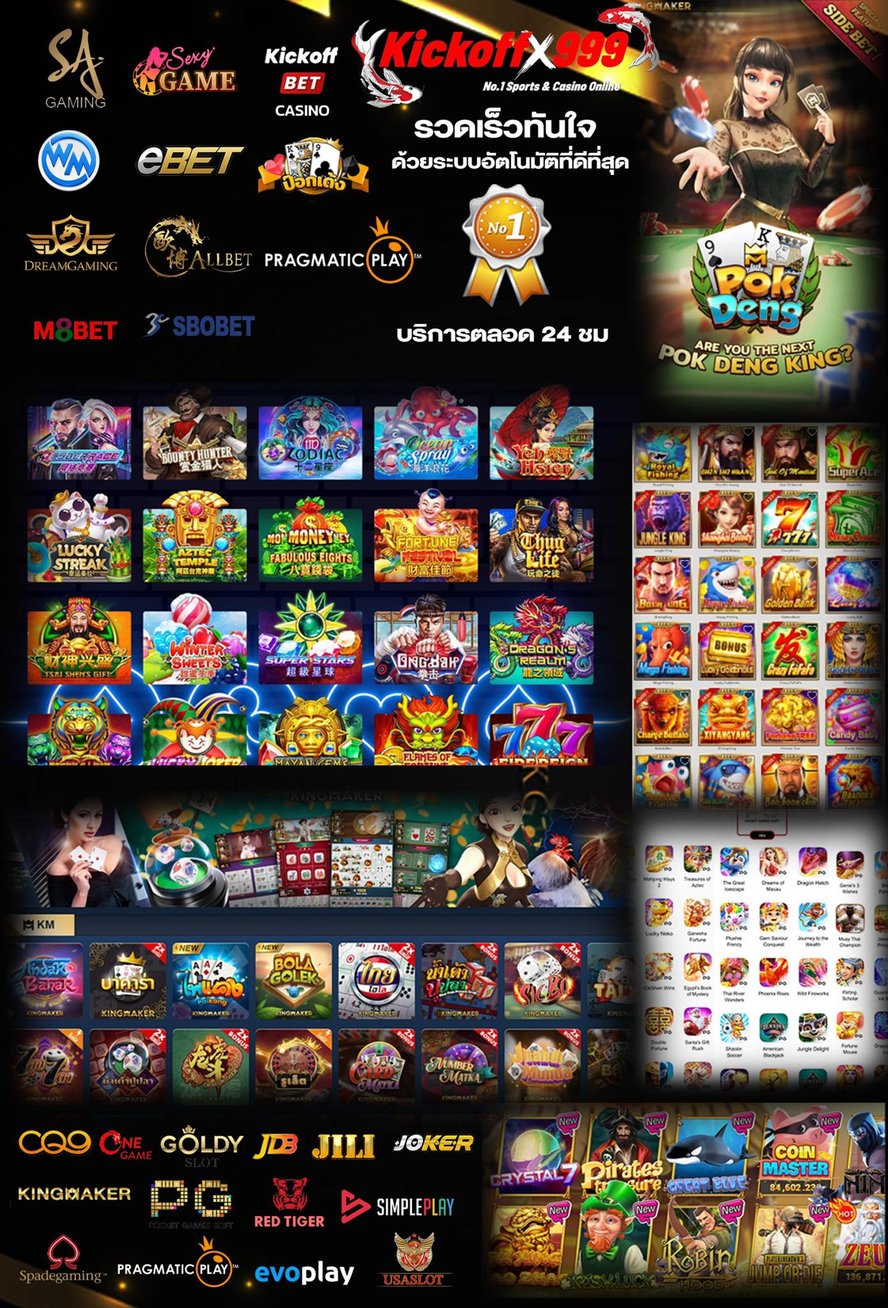
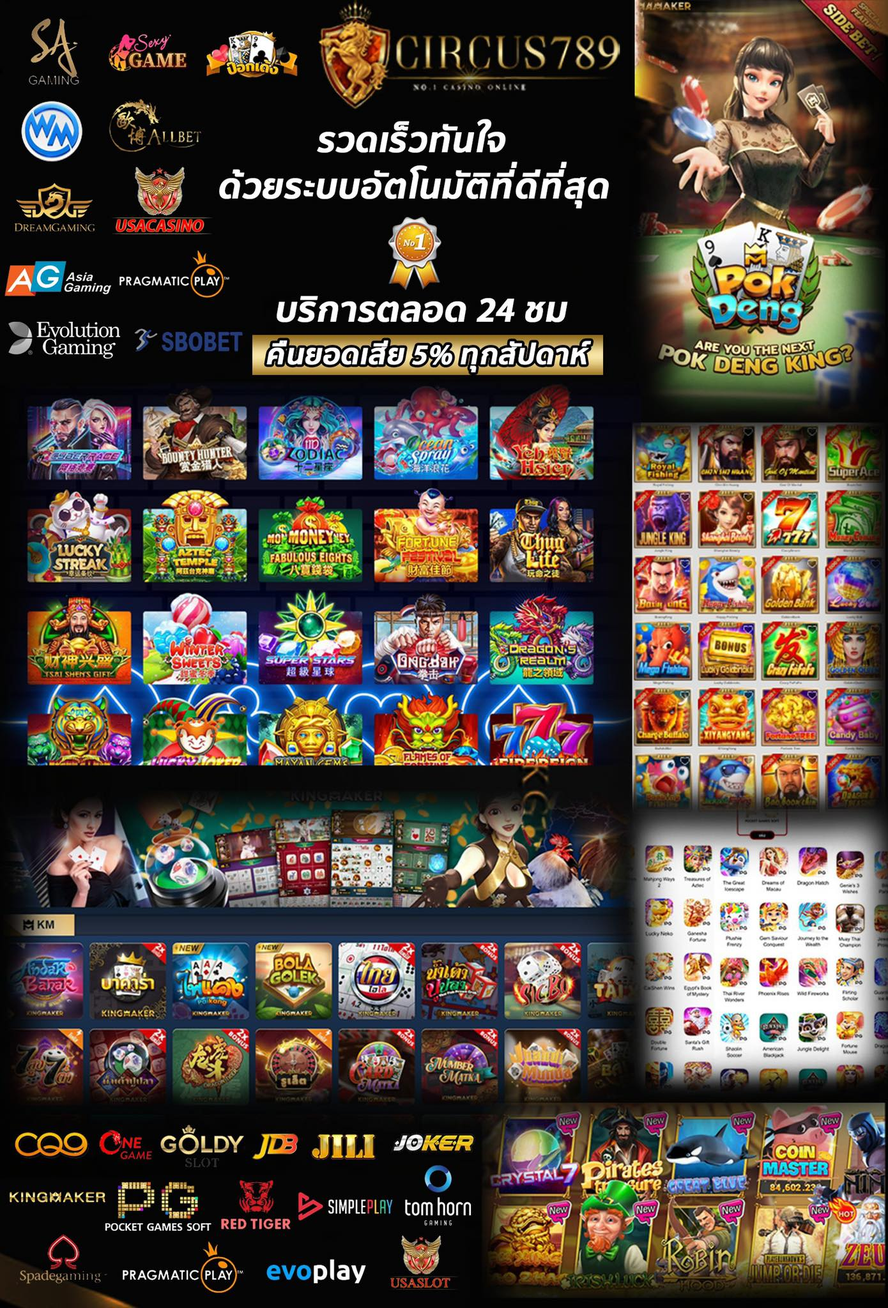
update new image & add line button

Changed region(s): [[0.0, 0.0, 0.7424, 0.3125], [0.0, 0.8438, 0.5259, 1.0]]

diff --git a/pages/index.vue b/pages/index.vue
@@ -1,10 +1,13 @@
 <template>
-  <div class="containerp-fluid">
+  <div class="containerp-fluid" style="background-color: black;">
     <div class="row">
       <div class="col-lg-12 text-center">
-        <a href="https://lin.ee/6zOZZHz">
+        <a href="https://www.circus789.com/register.php">
           <img class="img-fluid" src="../assets/images/bg_new.jpg" />
         </a>
+      </div>
+      <div class="col-lg-12 text-center" style="margin: 8px">
+        <a href="https://www.circus789.com/register.php" class="btn btn-success btn-lg" role="button"><img src="~/assets/images/add-line.png" width="250px" alt="Add line"></a>
       </div>
     </div>
   </div>
